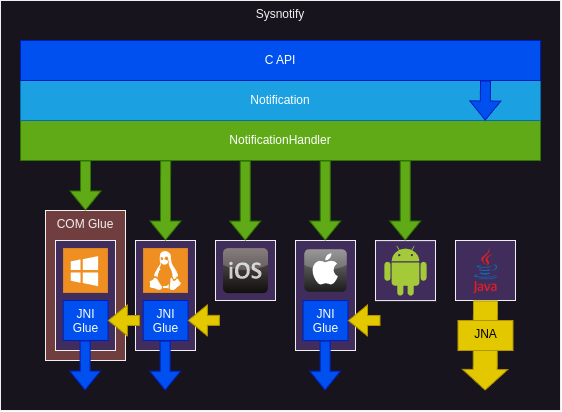
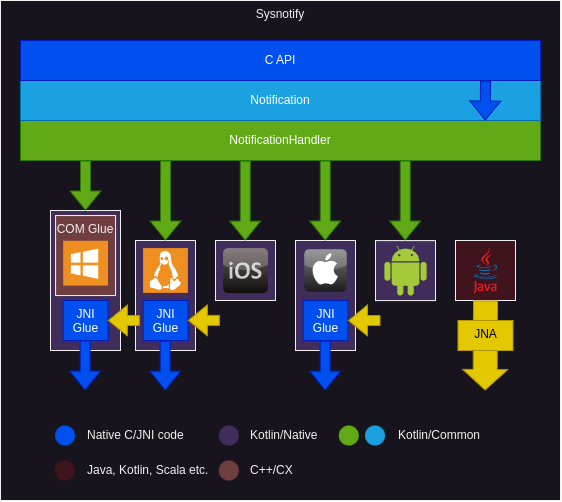
Update arch diagram, add editorconfig, trivy config & CI/CD config

diff --git a/sysnotify/src/linuxMain/kotlin/de/connect2x/sysnotify/JniGlue.linux.kt b/sysnotify/src/linuxMain/kotlin/de/connect2x/sysnotify/JniGlue.linux.kt
@@ -39,7 +39,7 @@ import kotlin.experimental.ExperimentalNativeApi
 internal lateinit var environment: JNIEnvVar
 
 @CName("JNI_OnLoad")
-external fun jniOnLoad(vm: JavaVMVar, reserved: COpaquePointer): jint {
+fun jniOnLoad(vm: JavaVMVar, reserved: COpaquePointer): jint {
     if (vm.pointed!!.GetEnv!!(
             vm.ptr,
             environment.ptr.reinterpret(),
@@ -52,19 +52,19 @@ external fun jniOnLoad(vm: JavaVMVar, reserved: COpaquePointer): jint {
 }
 
 @CName("JNI_OnUnload")
-external fun jniOnUnload(vm: JavaVM, reserved: COpaquePointer) {
+fun jniOnUnload(vm: JavaVM, reserved: COpaquePointer) {
 
 }
 
 // Exposed high-level C-API functions
 
 @CName("sn_notification_handler_create")
-external fun snNotificationHandlerCreate(name: String?, context: jobject?) {
+fun snNotificationHandlerCreate(name: String?, context: jobject?) {
 
 }
 
 @CName("sn_notification_handler_push")
-external fun snNotificationHandlerPush(
+fun snNotificationHandlerPush(
     handler: COpaquePointer?,
     name: String?,
     description: String?,
@@ -74,7 +74,7 @@ external fun snNotificationHandlerPush(
 }
 
 @CName("sn_notification_handler_update")
-external fun snNotificationHandlerUpdate(
+fun snNotificationHandlerUpdate(
     handler: COpaquePointer?,
     notification: COpaquePointer?,
     name: String?,
@@ -85,7 +85,7 @@ external fun snNotificationHandlerUpdate(
 }
 
 @CName("sn_notification_handler_pop")
-external fun snNotificationHandlerPop(
+fun snNotificationHandlerPop(
     handler: COpaquePointer?,
     notification: COpaquePointer?
 ) {
@@ -93,6 +93,6 @@ external fun snNotificationHandlerPop(
 }
 
 @CName("sn_notification_handler_destroy")
-external fun snNotificationHandlerDestroy(handler: COpaquePointer?) {
+fun snNotificationHandlerDestroy(handler: COpaquePointer?) {
 
 }
